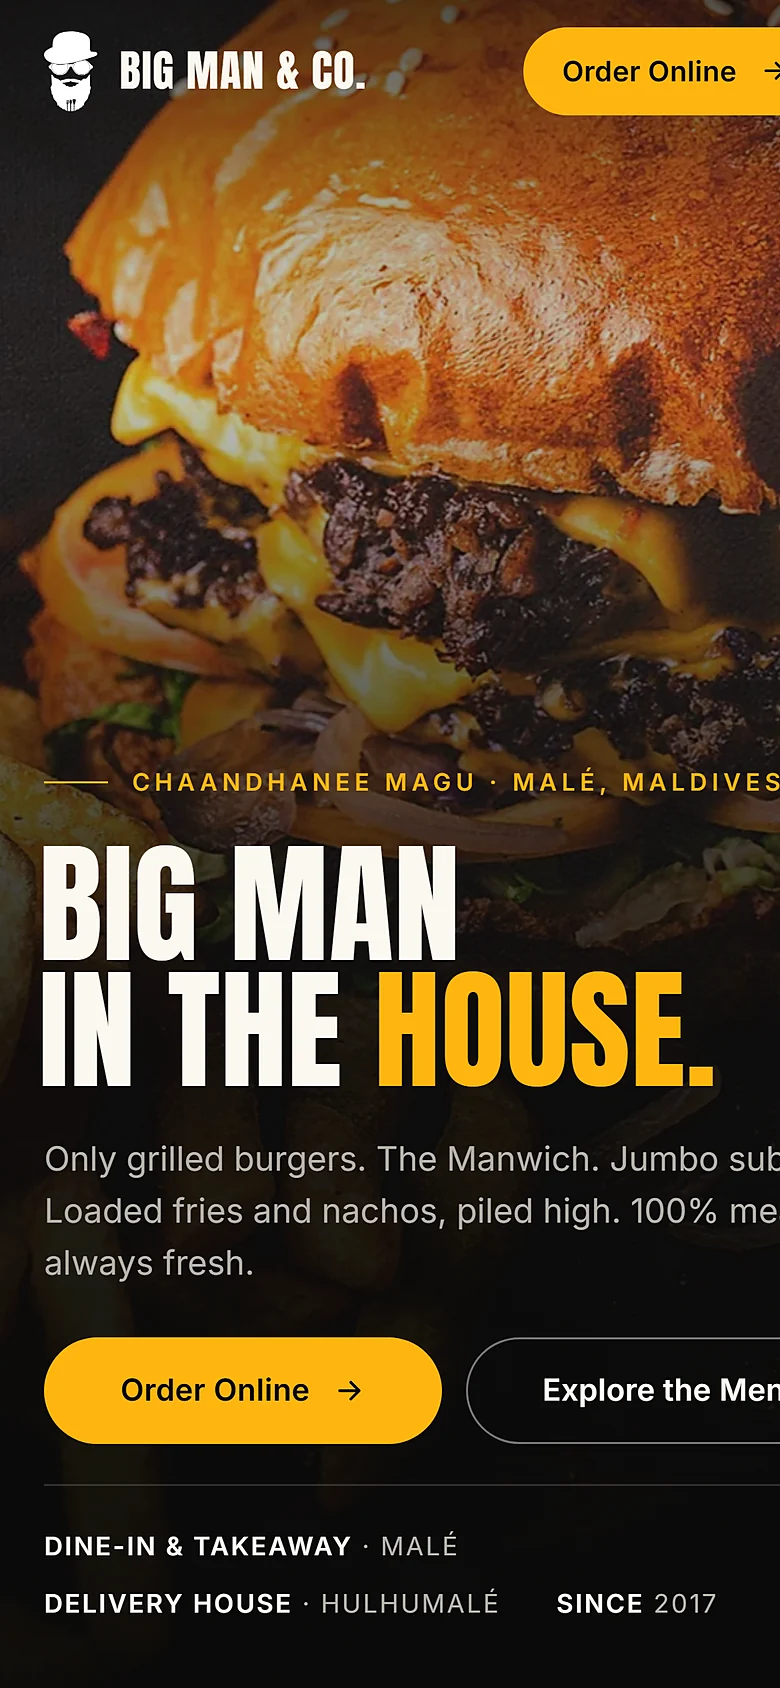
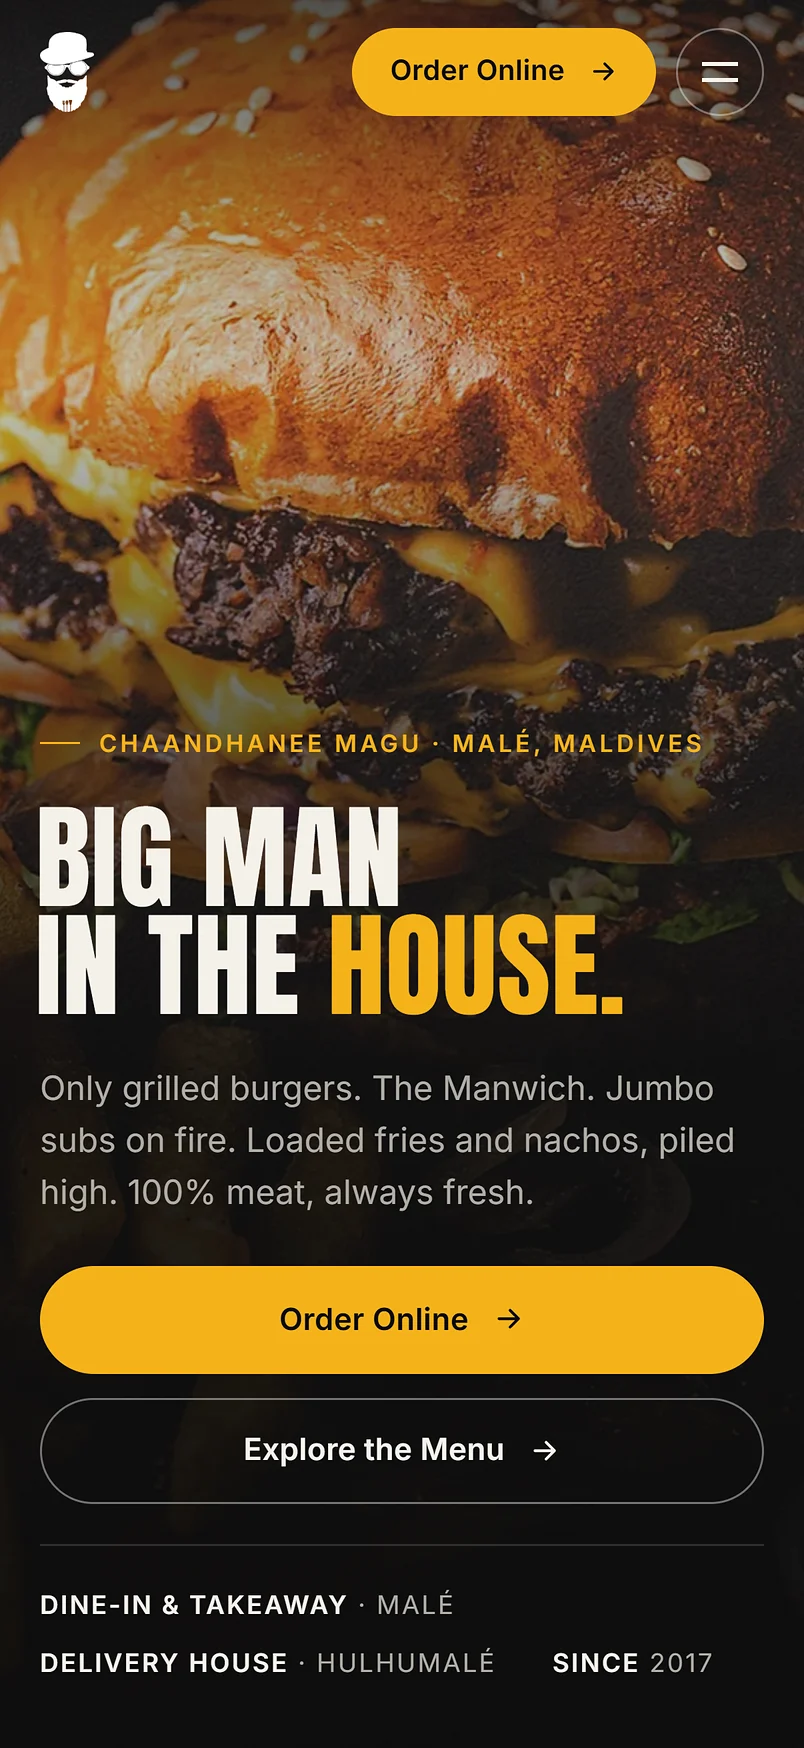
Web projects: phone mockups at the iPhone 18's real screen size
- Phone screenshots re-captured with true device emulation at the
  iPhone 18 viewport (402 x 874 pt, 3x = 1206 x 2622 px); the earlier
  shots were laid out wider than a phone and cropped
- Phone frame drawn to iPhone 18 proportions: 1206:2622 screen, rounded
  display corners, thin bezel and the Dynamic Island

diff --git a/src/styles/pages.css b/src/styles/pages.css
@@ -3900,18 +3900,43 @@ textarea {
 	left: 0;
 }
 
+/*
+ * iPhone 18 (6.3", 1206 x 2622 px = 402 x 874 pt): the screenshot is taken at that
+ * exact viewport. Thin black bezel, the display's rounded corners (about 55 pt on
+ * 402 pt) and the Dynamic Island, all sized as fractions of the phone.
+ */
 .webProj_phone {
+	position: relative;
 	display: block;
-	aspect-ratio: 390 / 844;
-	overflow: hidden;
-	padding: 5px;
-	border-radius: 1.6rem;
+	padding: 3.2%;
+	border-radius: 17% / 7.9%;
 	background: #0d0d0d;
-	box-shadow: 0 0 0 1px rgba(255, 255, 255, 0.16), 0 30px 60px -20px rgba(0, 0, 0, 0.85);
+	box-shadow: 0 0 0 1px rgba(255, 255, 255, 0.18), inset 0 0 0 1px rgba(255, 255, 255, 0.06), 0 30px 60px -20px rgba(0, 0, 0, 0.85);
+}
+
+.webProj_phone_screen {
+	position: relative;
+	display: block;
+	aspect-ratio: 1206 / 2622;
+	overflow: hidden;
+	border-radius: 13.7% / 6.3%;
+	background: #000;
+}
+
+.webProj_phone_screen::after {
+	content: '';
+	position: absolute;
+	top: 1.3%;
+	left: 50%;
+	width: 31%;
+	height: 4.2%;
+	translate: -50% 0;
+	border-radius: 999px;
+	background: #000;
 }
 
 .webProjSection .webProj_phone img {
-	border-radius: 1.25rem;
+	border-radius: 0;
 }
 
 /* Copy: the brand tile and headline figure (as on the case cards), then the story and its numbers. */

diff --git a/src/components/work/WebProjects.jsx b/src/components/work/WebProjects.jsx
@@ -3,7 +3,7 @@ import { gsap, reduced, canHover } from '../../lib/motion.js';
 
 /*
  * Sites the studio has designed and built. Screenshots are the live sites at
- * 2x (desktop) and 3x (phone), lightly sharpened. Text in **double stars**
+ * 2x (desktop) and at the iPhone 18's 402 x 874 pt viewport (phone), lightly sharpened. Text in **double stars**
  * is picked out in highlight yellow; figures come from each live site.
  */
 const PROJECTS = [
@@ -124,7 +124,7 @@ export default function WebProjects( { eyebrow = '(03) Selected web projects' } 
 									<span className="webProj_shot"><img src={ `/assets/web/${ p.id }-desk.webp` } alt={ `${ p.name } website, home page on desktop` } loading="lazy" decoding="async" width="2400" height="1500" /></span>
 								</a>
 								<div className="webProj_phoneWrap" aria-hidden="true">
-									<span className="webProj_phone"><img src={ `/assets/web/${ p.id }-mob.webp` } alt="" loading="lazy" decoding="async" width="780" height="1688" /></span>
+									<span className="webProj_phone"><span className="webProj_phone_screen"><img src={ `/assets/web/${ p.id }-mob.webp` } alt="" loading="lazy" decoding="async" width="804" height="1748" /></span></span>
 								</div>
 							</div>
 							<div className="webProj_body">
